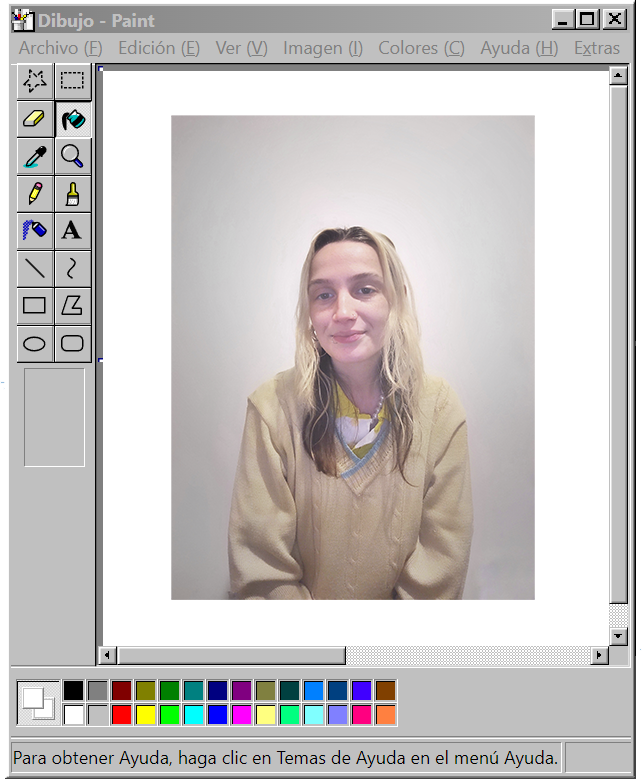
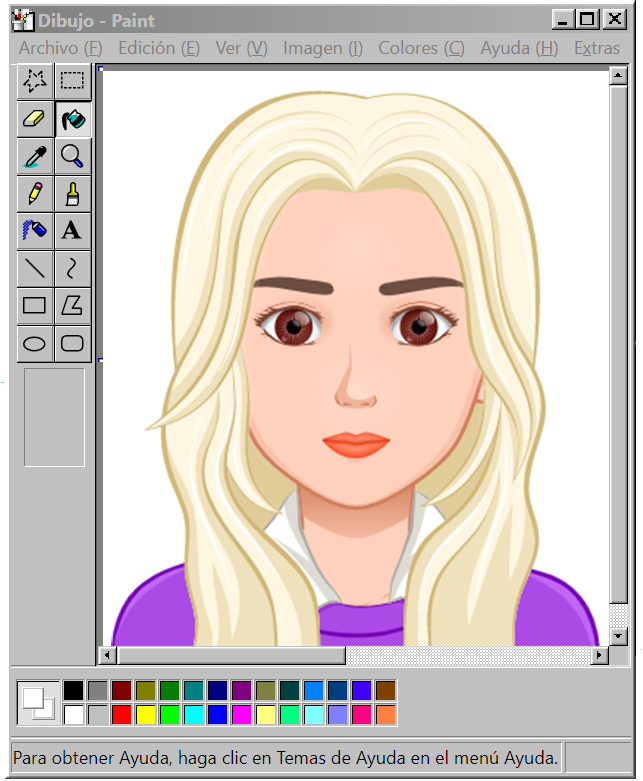
remplazo de fotos

diff --git a/css/windows.css b/css/windows.css
@@ -79,7 +79,12 @@ body {
 }
 
 .nav__window:hover {
-  transform: scale(1.1);
+    transform: scale(1.1);
+}
+
+.nav__window:active {
+    background-color: black;
+    color: white;
 }
 
 .nav__bar {
@@ -195,7 +200,6 @@ main {
     box-shadow: inset -1px -1px #dfdfdf, inset 1px 1px #dfdfdf, inset -2px -2px grey, inset 2px 2px #fff;
     padding: 3px;
     width: 90%;
-    height: 61%;
     justify-content: center;
     margin-top: 72px;
 }
@@ -470,7 +474,7 @@ span {
 
 .footer__text {
     color: white;
-    font-size: 11px;
+    font-size: 13px;
 }
 
 @media (min-width: 768px) {
@@ -499,9 +503,12 @@ span {
         font-size: 20px;
     }
 
+    .cd__window {
+        width: 85%;
+    }
+    
     .paint {
-        width: 550px;
-        height: 700px;
+        width: 90%;
         margin-top: 68px;
     }
 
@@ -518,7 +525,7 @@ span {
     }
 
     .aboutme__container {
-        width: 70%; 
+        width: 75%; 
     }
 
     .aboutme__h2 {
@@ -536,7 +543,7 @@ span {
 
     .footer__text {
         color: white;
-        font-size: 20px;
+        font-size: 26px;
     }
     
 }
@@ -573,6 +580,7 @@ span {
         display: flex;
         flex-direction: column;
         align-items: center;
+        justify-content: space-between;
     }
 
     .column {
@@ -655,11 +663,17 @@ span {
     }
 
     .column {
-    margin-top: 0;
+        margin-top: 0;
+        justify-content: space-between;
+    }
+
+    .skills {
+        width: 100%;
     }
   
     .aboutme__container {
-        margin: 75px 24px;
+        margin: 9px 24px;
+        width: 90%;
     }
   
     .footer__text {

diff --git a/index.html b/index.html
@@ -9,7 +9,7 @@
   <meta name="description" content="cv de rocio molina">
   <meta name="keywords" content="cv, busqueda laboral, fullstack">
   <title>Rocio Molina</title>
-  <link rel="icon" href="img/rm.jpg">
+  <link rel="icon" href="img/rm.png">
   <link rel="stylesheet" href="/css/style.css">
   <link rel="preconnect" href="https://fonts.googleapis.com">
   <link rel="preconnect" href="https://fonts.gstatic.com" crossorigin>
